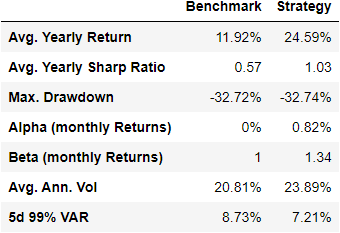
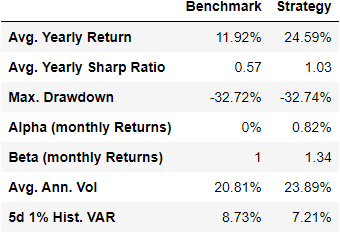
slight modifications

Changed region(s): [[0.0882, 0.9013, 0.3529, 0.9614]]

diff --git a/calculations.py b/calculations.py
@@ -418,7 +418,7 @@ def maxdd(price, pct = True):
         return maxdd
 
 #---------------------------------------------------------------------------
-                        #N Day unfiltered 99% VAR
+                        #N Day unfiltered historical 1% VAR
 #---------------------------------------------------------------------------
 
 #N as number of days (integer)
@@ -461,7 +461,7 @@ ratios_BM_in = {"Avg. Yearly Return": nday_ret(BM_in, N = 250),
          "Alpha (monthly Returns)": "0%",
          "Beta (monthly Returns)": 1,
          "Avg. Ann. Vol": yearly_vol(BM_in, days = 250),
-         "5d 99% VAR": NDAYVar(BM_in, N = 5)}
+         "5d 1% Hist. VAR": NDAYVar(BM_in, N = 5)}
 
 ratios_BM_out = {"Return YTD": nday_ret(BM_out, TR = True),
          "Avg. Yearly Sharp Ratio": sharp_ratio(BM_out, days = 250, rf_rate = 0),
@@ -469,7 +469,7 @@ ratios_BM_out = {"Return YTD": nday_ret(BM_out, TR = True),
          "Alpha (weekly Returns)": "0%",
          "Beta (weekly Returns)": 1,
          "Avg. Ann. Vol": yearly_vol(BM_out, days = 250),
-         "5d 99% VAR": NDAYVar(BM_out, N = 5)}
+         "5d 1% Hist. VAR": NDAYVar(BM_out, N = 5)}
 
 ratios_strategy_in = {"Avg. Yearly Return": nday_ret(strategy_in, N = 250),
                "Avg. Yearly Sharp Ratio": sharp_ratio(strategy_in, days = 250, rf_rate = 0),
@@ -477,7 +477,7 @@ ratios_strategy_in = {"Avg. Yearly Return": nday_ret(strategy_in, N = 250),
                "Alpha (monthly Returns)": alpha_beta(strategy_in, BM_in, "1M", rf_period = 0, param = "alpha"),
                "Beta (monthly Returns)": round(alpha_beta(strategy_in, BM_in, "1M", rf_period = 0, param = "beta"),2),
                "Avg. Ann. Vol": yearly_vol(strategy_in, days = 250),
-               "5d 99% VAR": NDAYVar(strategy_in, N = 5)}
+               "5d 1% Hist. VAR": NDAYVar(strategy_in, N = 5)}
 
 ratios_strategy_out = {"Return YTD": nday_ret(strategy_out, TR = True),
                 "Avg. Yearly Sharp Ratio": sharp_ratio(strategy_out, days = 250, rf_rate = 0),
@@ -485,7 +485,7 @@ ratios_strategy_out = {"Return YTD": nday_ret(strategy_out, TR = True),
                 "Alpha (weekly Returns)": alpha_beta(strategy_out, BM_out, "1W", rf_period = 0, param = "alpha"),
                 "Beta (weekly Returns)": round(alpha_beta(strategy_out, BM_out, "1W", rf_period = 0, param = "beta"),2),
                 "Avg. Ann. Vol": yearly_vol(strategy_out, days = 250),
-                "5d 99% VAR": NDAYVar(strategy_out, N = 5)}
+                "5d 1% hist. VAR": NDAYVar(strategy_out, N = 5)}
 
 risk_factors_in = pd.DataFrame({"Benchmark": ratios_BM_in, "Strategy": ratios_strategy_in})
 risk_factors_out = pd.DataFrame({"Benchmark": ratios_BM_out, "Strategy": ratios_strategy_out})
